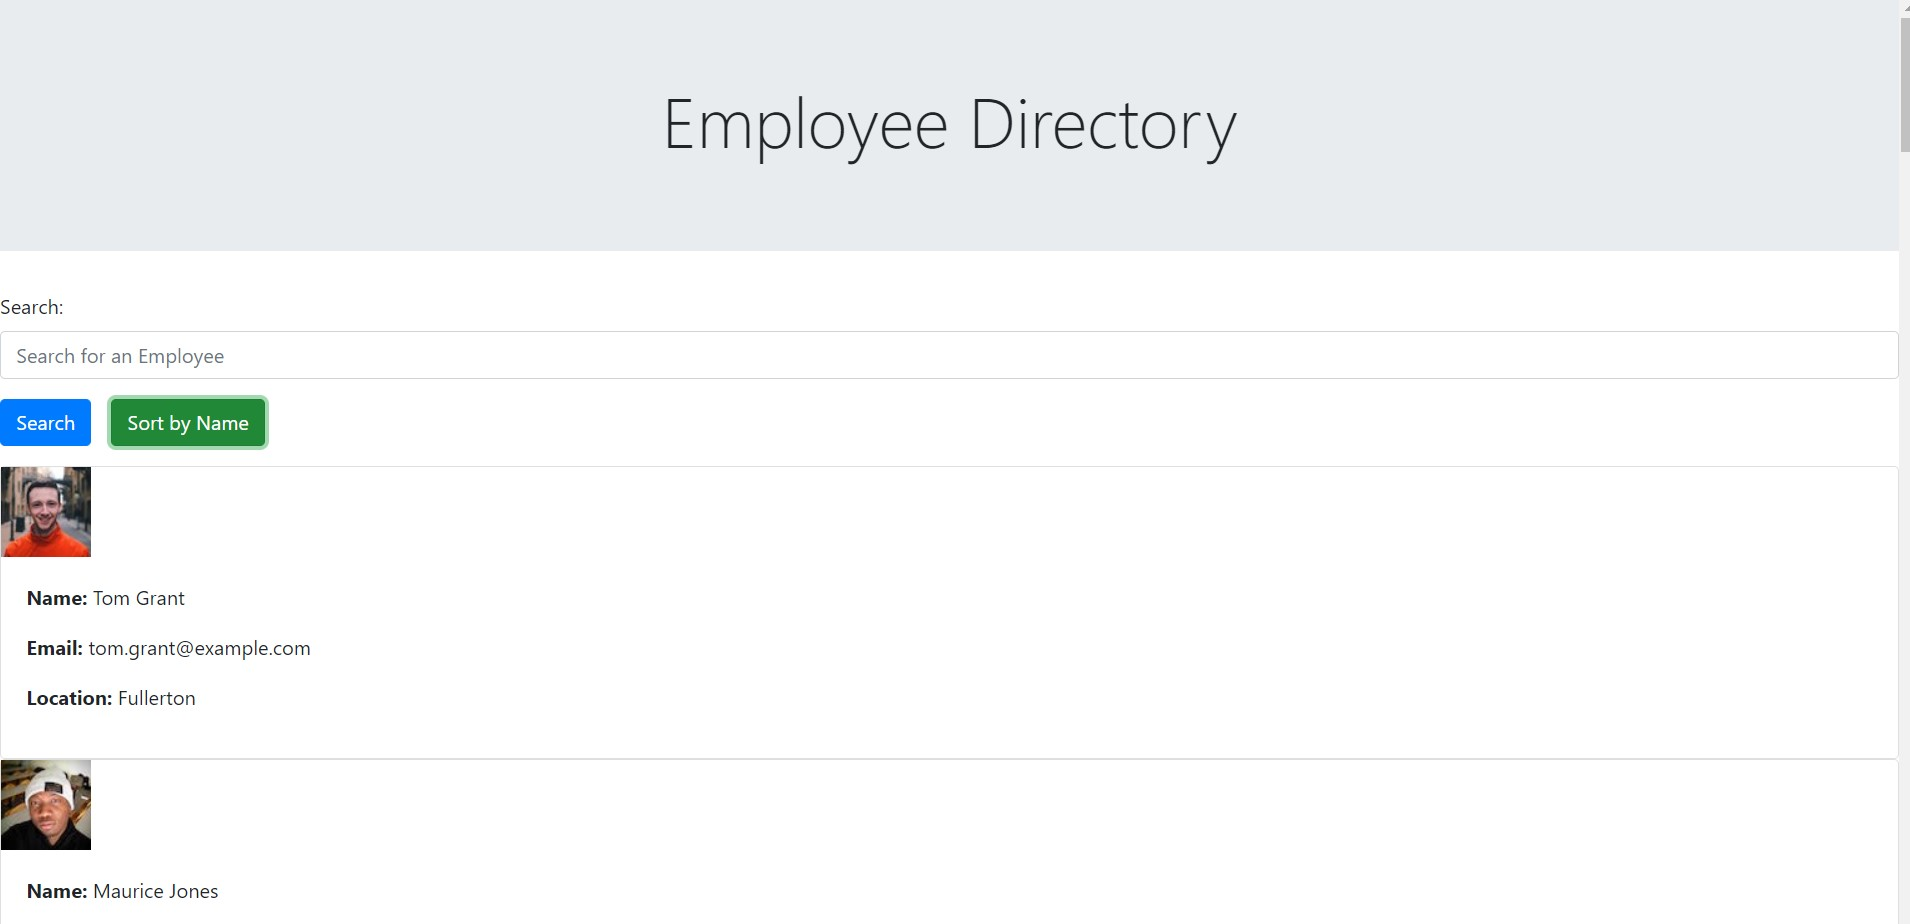
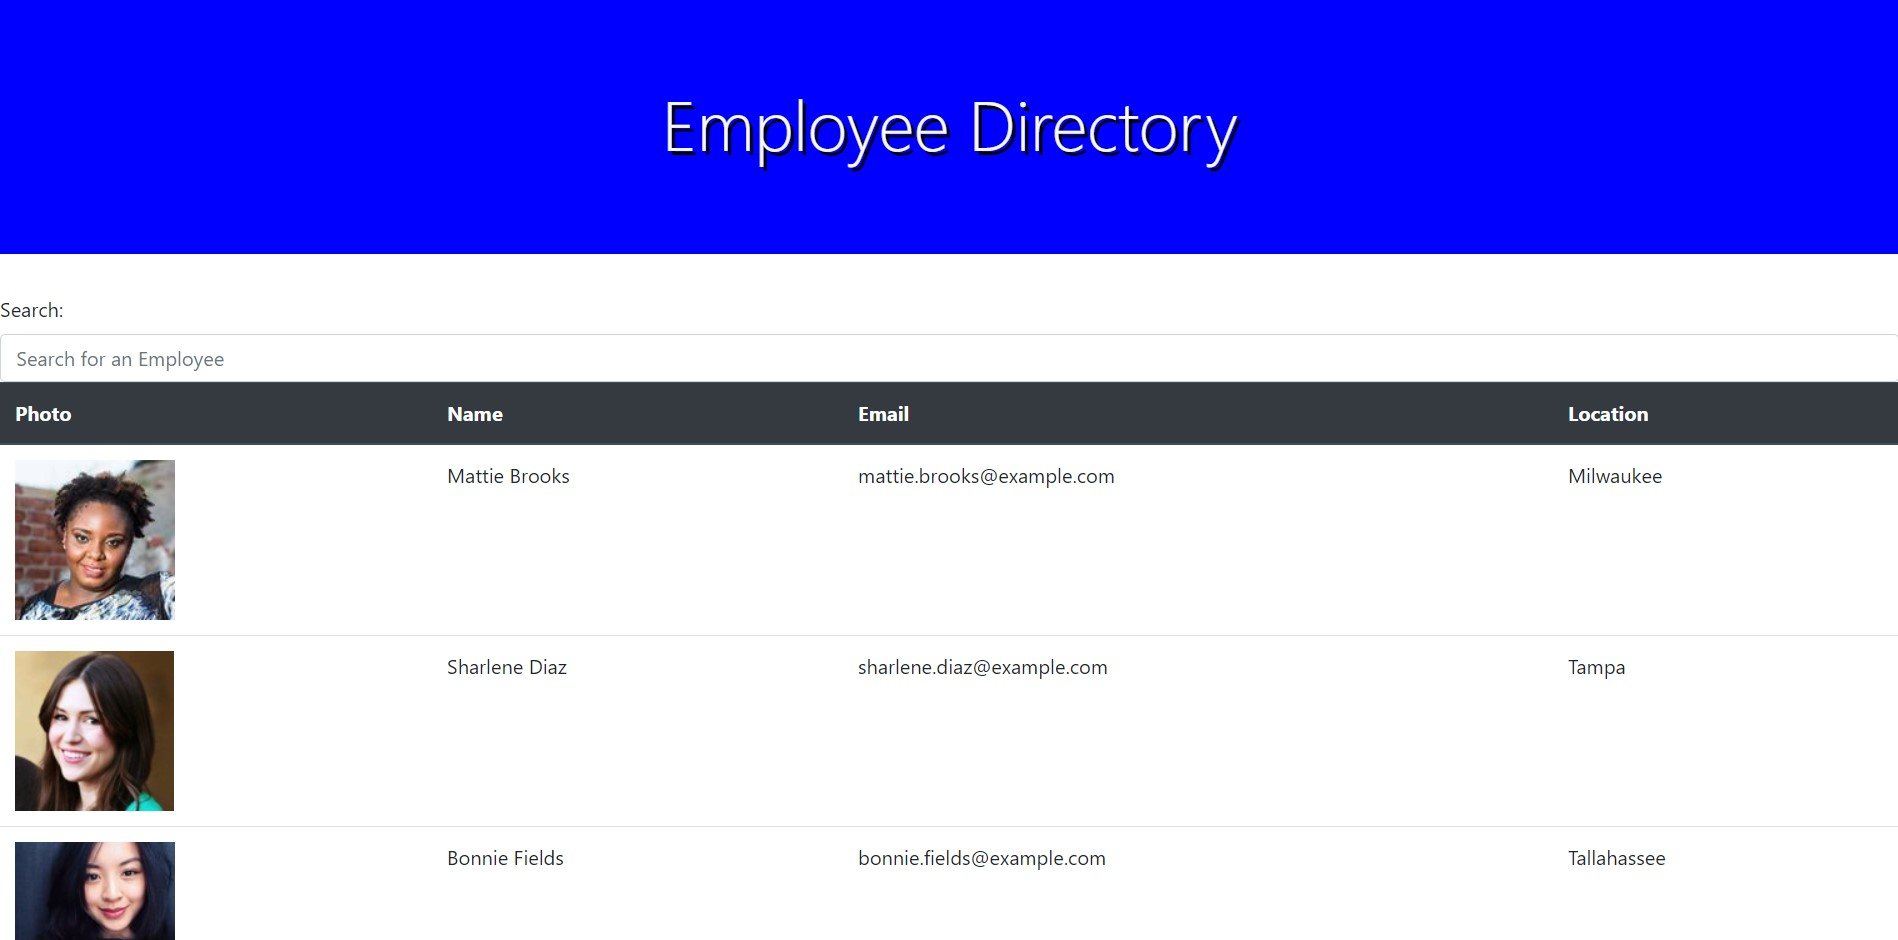
addes some style

diff --git a/src/components/Employees.js b/src/components/Employees.js
@@ -1,6 +1,7 @@
 import React, { Component } from "react";
 import SearchForm from "./SearchForm";
 import ResultList from "./ResultList";
+import "./style.css";
 
 import axios from "axios";
 
@@ -96,7 +97,7 @@ class EmployeeResults extends Component {
       <div>
         <div className="jumbotron jumbotron-fluid">
           <div className="container">
-            <h1 className="display-4 text-center">Employee Directory</h1>
+            <h1 className="display-4 text-center text-light">Employee Directory</h1>
 
           </div>
         </div>
@@ -108,13 +109,13 @@ class EmployeeResults extends Component {
           value={this.state.search}
           handleInputChange={this.handleInputChange}
         />
-        <table className="table">
-          <thead>
+        <table className="table thead-dark">
+          <thead className="thead-dark">
             <tr>
               <th scope="col">Photo</th>
-              <th scope="col" onClick={this.nameSort}>Name</th>
-              <th scope="col" onClick={this.emailSort}>Email</th>
-              <th scope="col" onClick={this.locationSort}>Location</th>
+              <th scope="col" className="hover" onClick={this.nameSort}>Name</th>
+              <th scope="col" className="hover" onClick={this.emailSort}>Email</th>
+              <th scope="col" className="hover" onClick={this.locationSort}>Location</th>
             </tr>
           </thead>
           <tbody>

diff --git a/src/components/style.css b/src/components/style.css
@@ -1,0 +1,7 @@
+.jumbotron{
+    background-color: blue !important; 
+    text-shadow: 3px 3px black;
+}
+.hover{
+    /* font-size: 30px; */
+}
